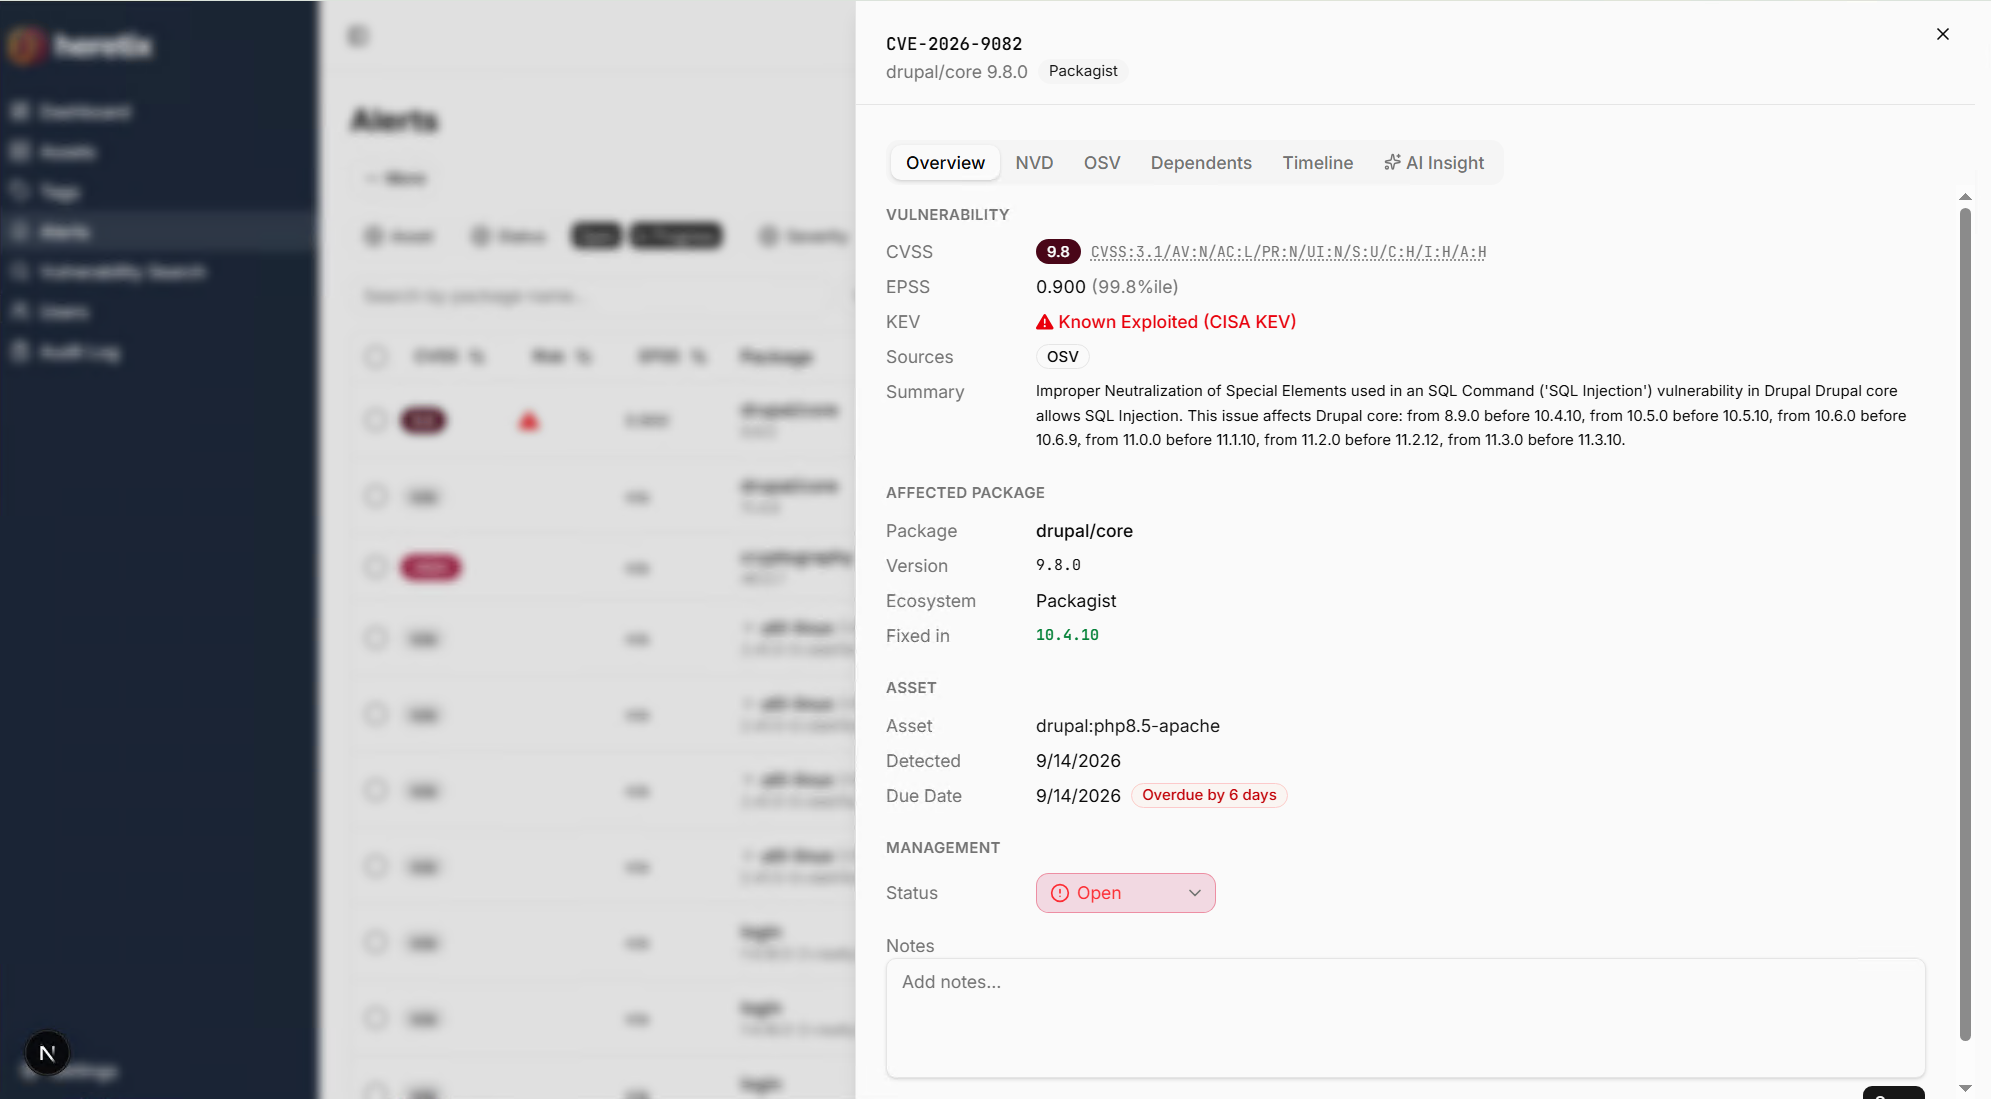
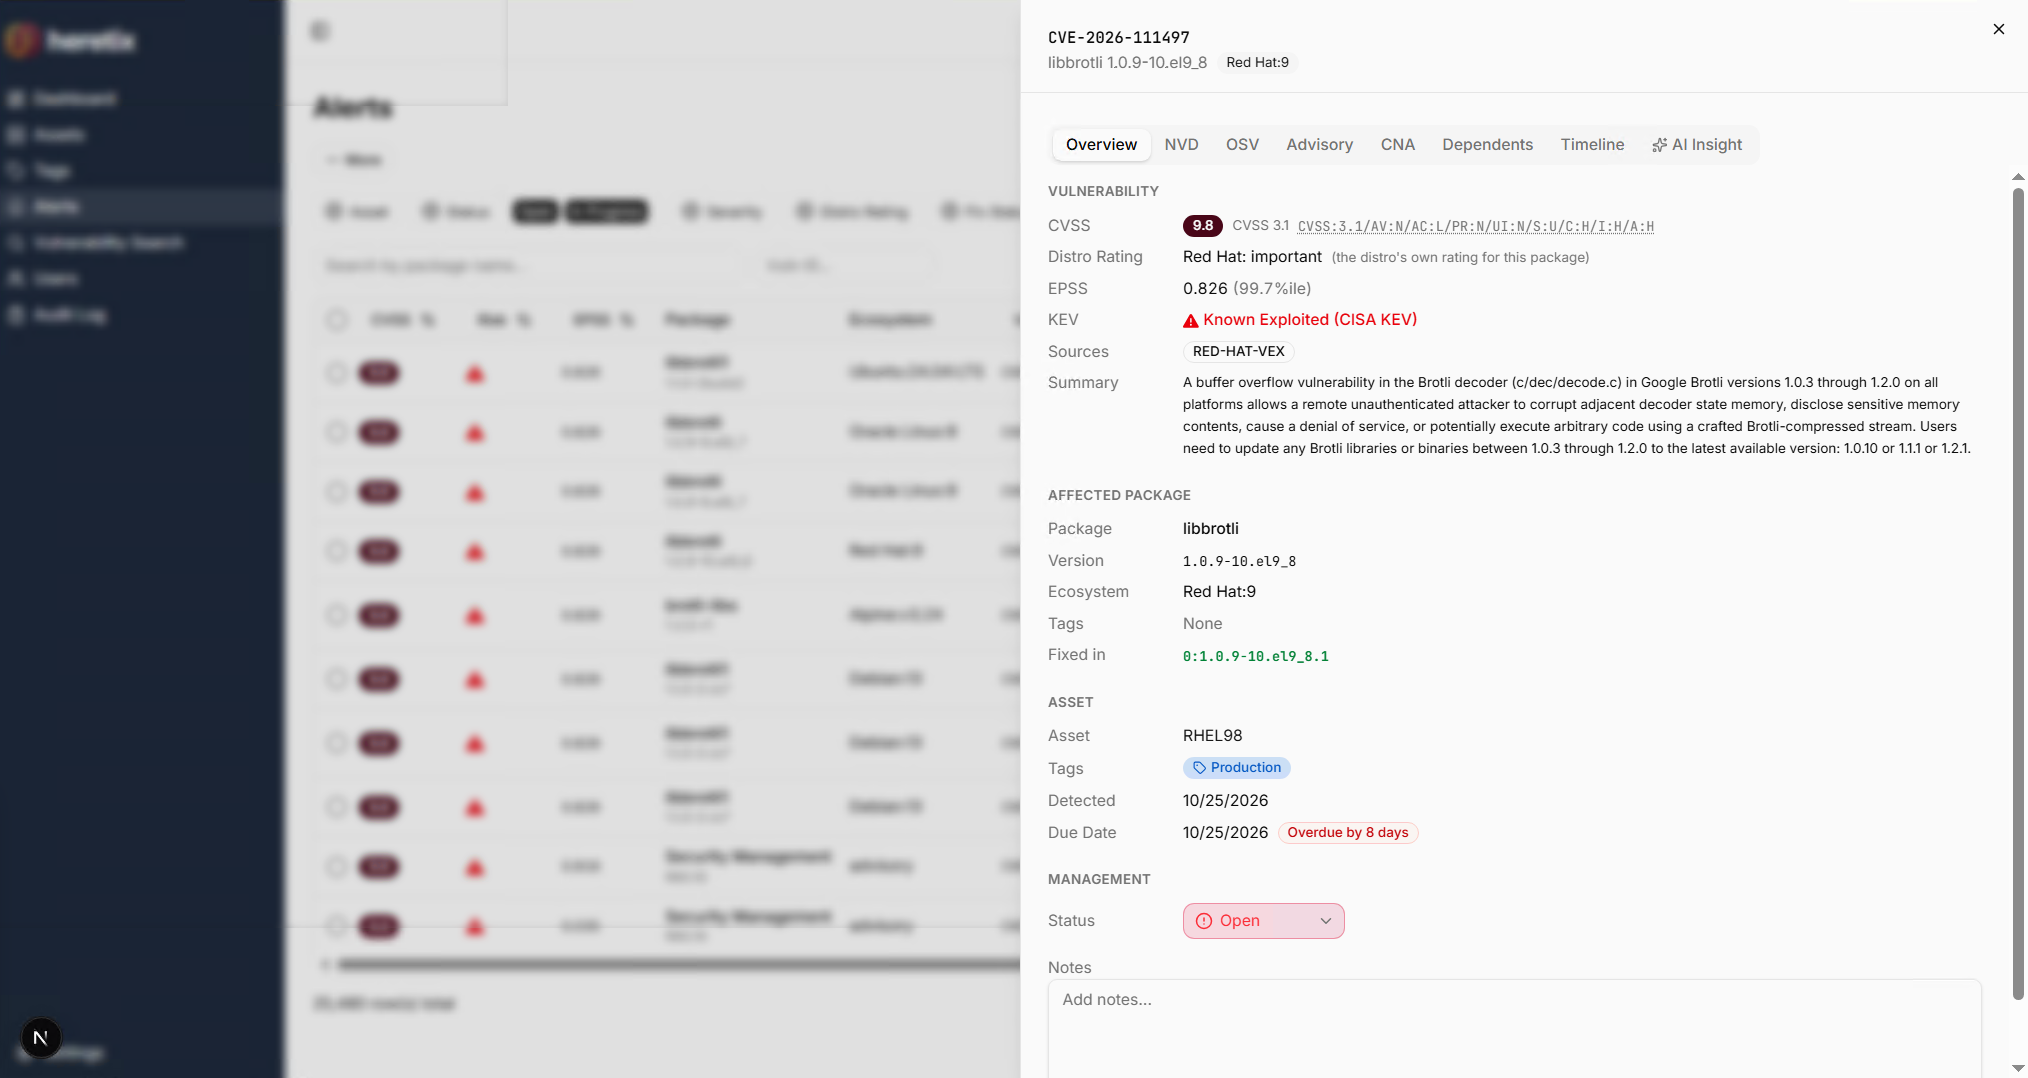
update: retake the screenshots and add the Remediation and Dependency Graph views
The dashboard, alerts and alert detail screenshots are retaken from the
current console. See it in action gains two views the page describes in
Key Features but did not show: the Remediation tab, where an asset's
open alerts are grouped by the change that fixes them, and the
Dependency Graph tab. The section's subtitle names them, and the alert
detail caption now says what the screenshot shows, the SLA due date,
rather than the timeline.

diff --git a/src/i18n/en.ts b/src/i18n/en.ts
@@ -65,11 +65,13 @@ export const en = {
 
   // Showcase
   showcaseTitle: 'See it in action',
-  showcaseSubtitle: 'A full management console: dashboards, asset inventory, and alert triage in one self-hosted app.',
+  showcaseSubtitle: 'A full management console: dashboards, asset inventory, alert triage, remediation by fix, and a dependency graph in one self-hosted app.',
   showcaseCaptionDashboard: 'Dashboard: severity breakdown, trends, and KEV highlights',
   showcaseCaptionAssets: 'Asset inventory imported from a CycloneDX SBOM',
   showcaseCaptionAlerts: 'Alert triage with multi-value filters and bulk actions',
-  showcaseCaptionAlertsDetail: 'Alert detail: CVSS, KEV, EPSS, fixed version, and timeline',
+  showcaseCaptionAlertsDetail: 'Alert detail: CVSS, KEV, EPSS, fixed version, and SLA due date',
+  showcaseCaptionRemediation: 'Remediation: an asset’s open alerts grouped by the change that fixes them',
+  showcaseCaptionGraph: 'Dependency graph: which packages pull in a vulnerable dependency',
 
   // Components
   componentsTitle: 'Components',
